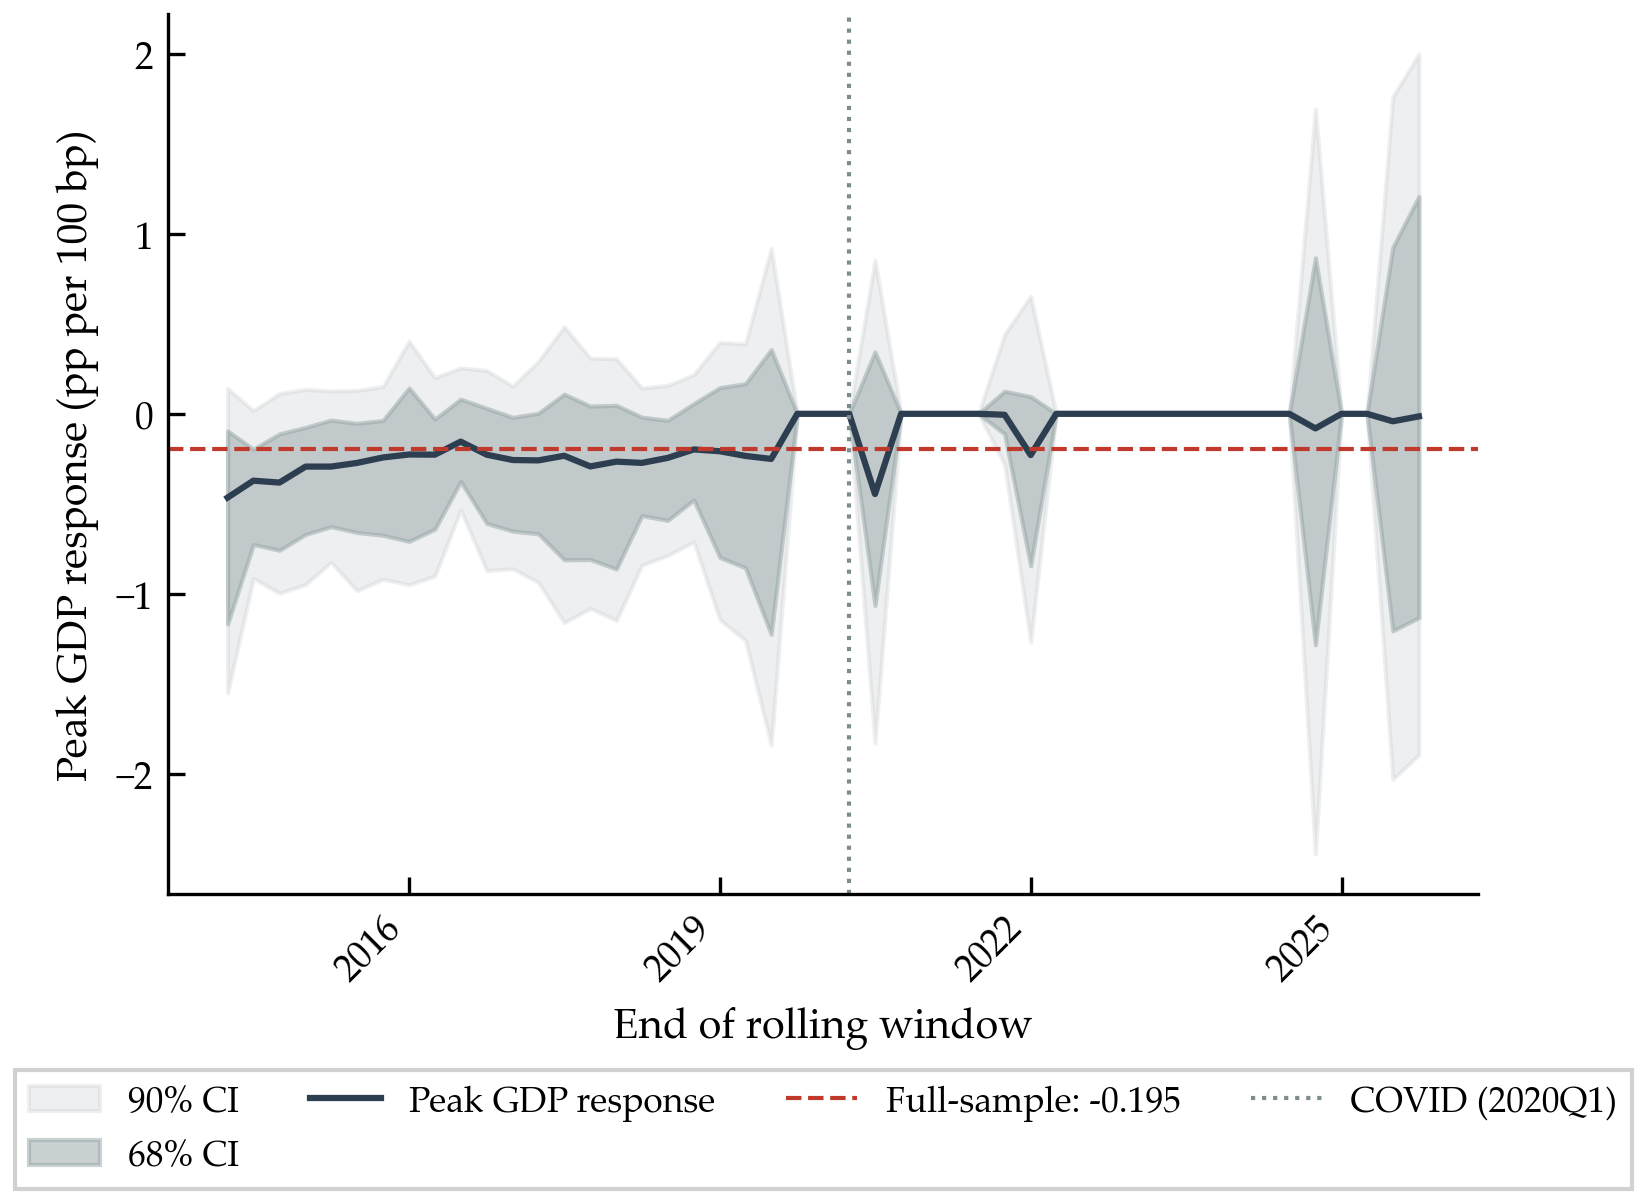
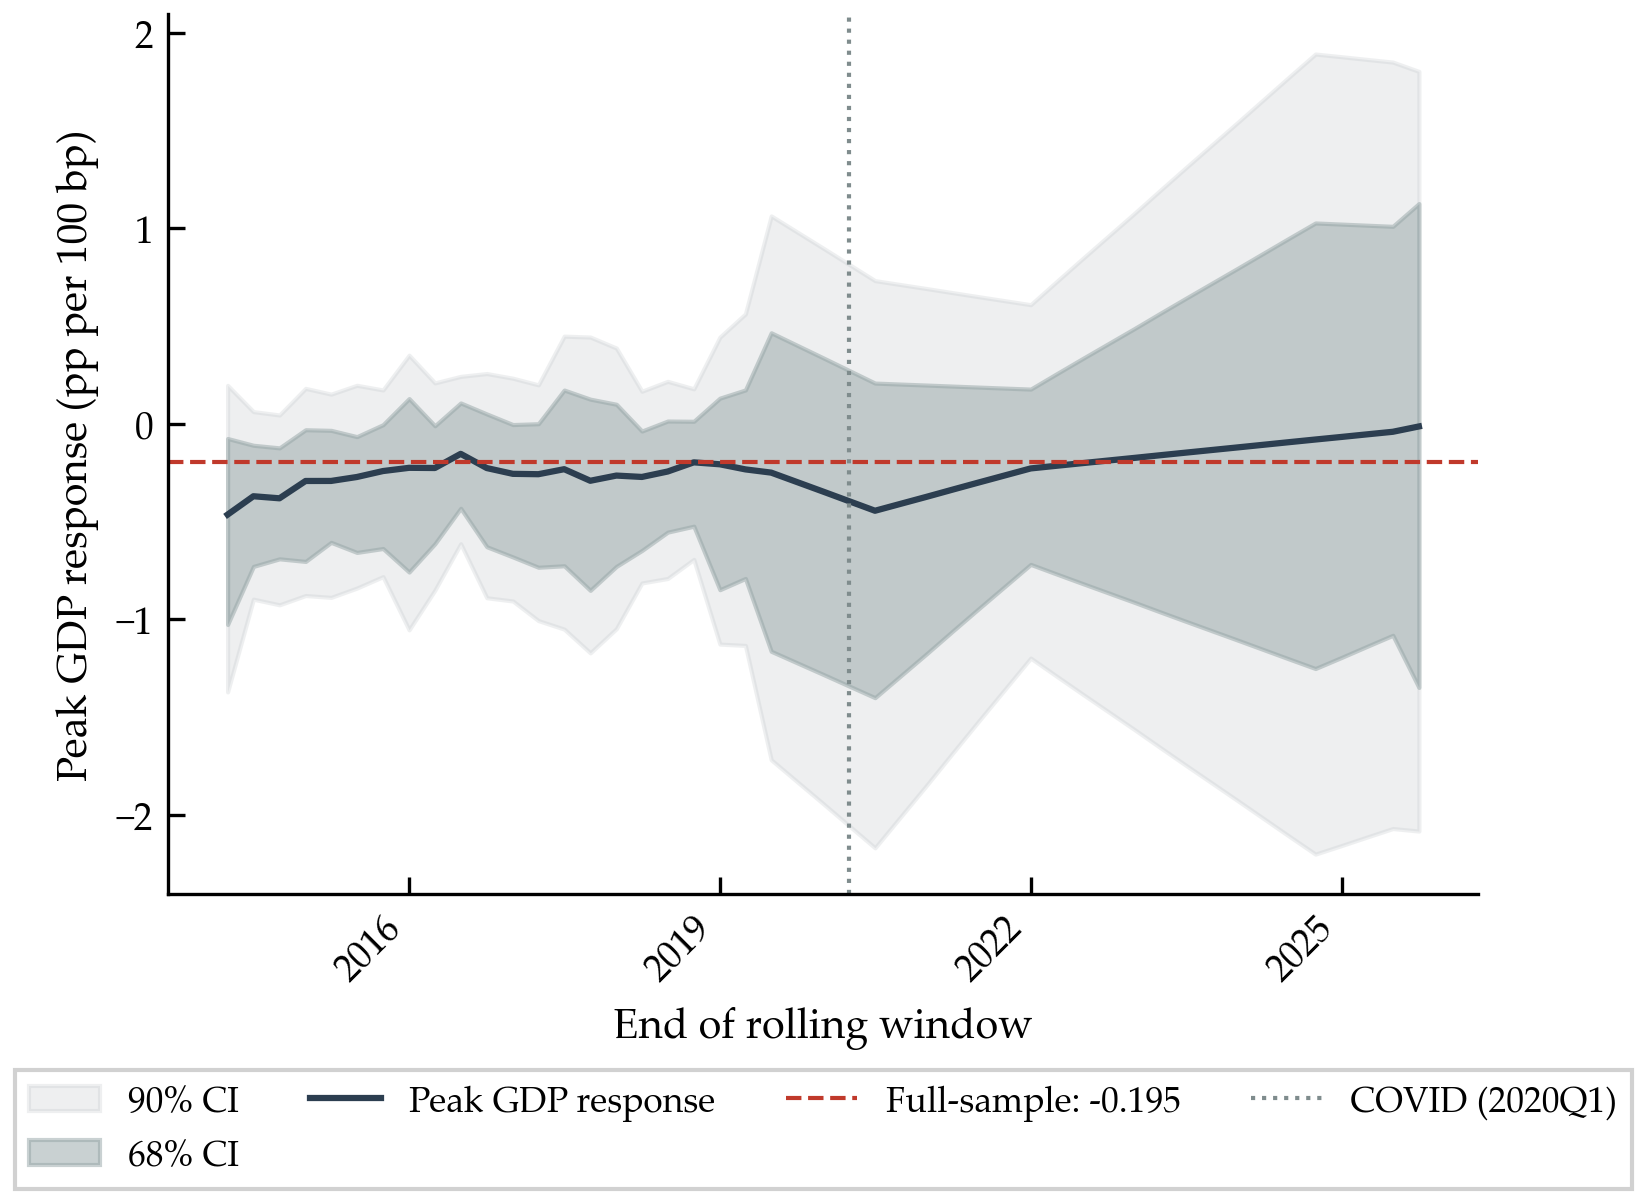
Fix rolling IRF: skip h=0, mark wrong-sign windows as NaN for interpolation

diff --git a/paper/run_figures_A.py b/paper/run_figures_A.py
@@ -86,7 +86,10 @@ def compute_cholesky_irf(var_result, shock_var_idx=4, horizon=9, n_boot=500,
         return irfs
 
     norm = P[shock_var_idx, shock_var_idx]
-    if abs(norm) < 1e-10: norm = 1.0
+    # Degenerate window: shock variable nearly constant (e.g. flat rate during ZLB)
+    if abs(norm) < 0.01:
+        dummy = np.full(horizon, np.nan)
+        return dummy, dummy, dummy, dummy, dummy
     irf_pt = irf_calc(var_result.coefs, P, horizon, shock_var_idx, response_idx) / norm
 
     if n_boot == 0:
@@ -465,8 +468,13 @@ def figure_A5(var_df):
             r = VAR(sub).fit(1, trend='c')
             irf_r, lo_r90, hi_r90, lo_r68, hi_r68 = compute_cholesky_irf(
                 r, shock_var_idx=4, response_idx=1, horizon=9, n_boot=300)
-            h_pk = int(irf_r.argmin())
-            peaks.append(irf_r[h_pk])
+            # Skip h=0 (always 0 by Cholesky ordering); find peak over h>=1
+            h_pk = int(np.nanargmin(irf_r[1:])) + 1 if not np.all(np.isnan(irf_r[1:])) else 1
+            pk_val = irf_r[h_pk]
+            # Windows with no negative peak (wrong-sign or degenerate) → NaN, interpolate over
+            if np.isnan(pk_val) or pk_val >= -0.01:
+                raise ValueError('no negative peak')
+            peaks.append(pk_val)
             ci_lo.append(lo_r90[h_pk])
             ci_hi.append(hi_r90[h_pk])
             ci_lo68.append(lo_r68[h_pk])
